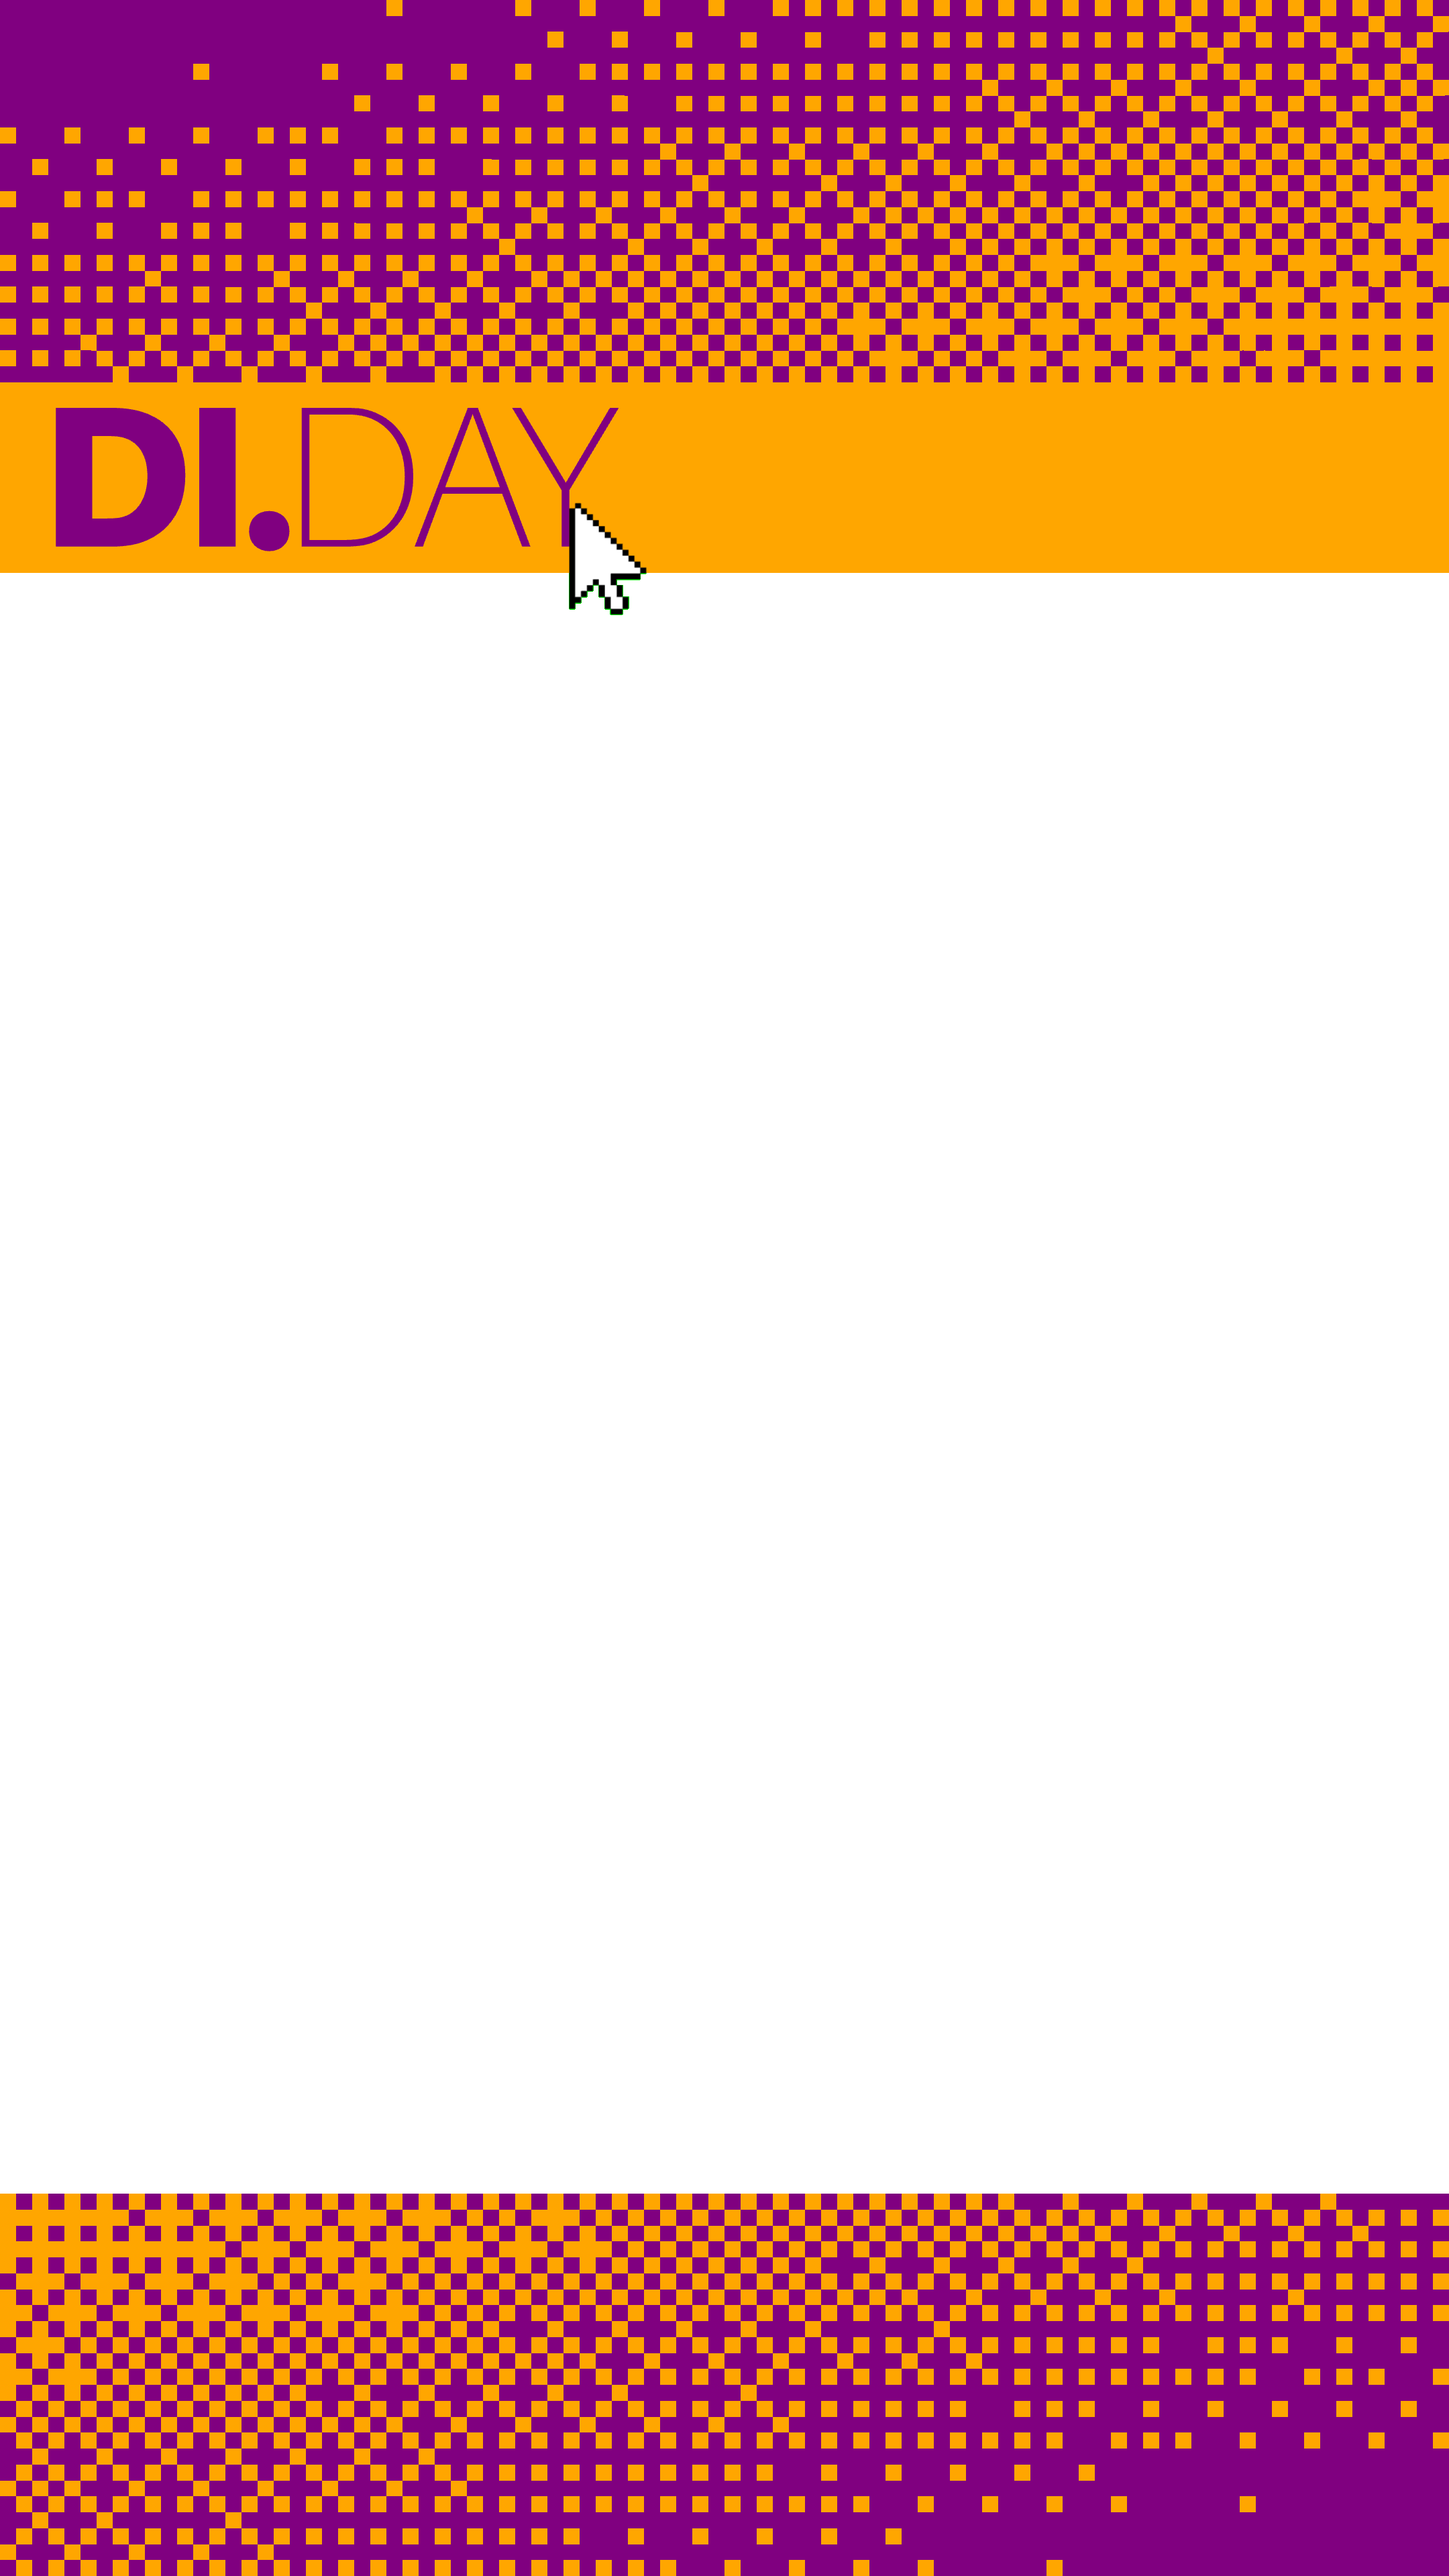
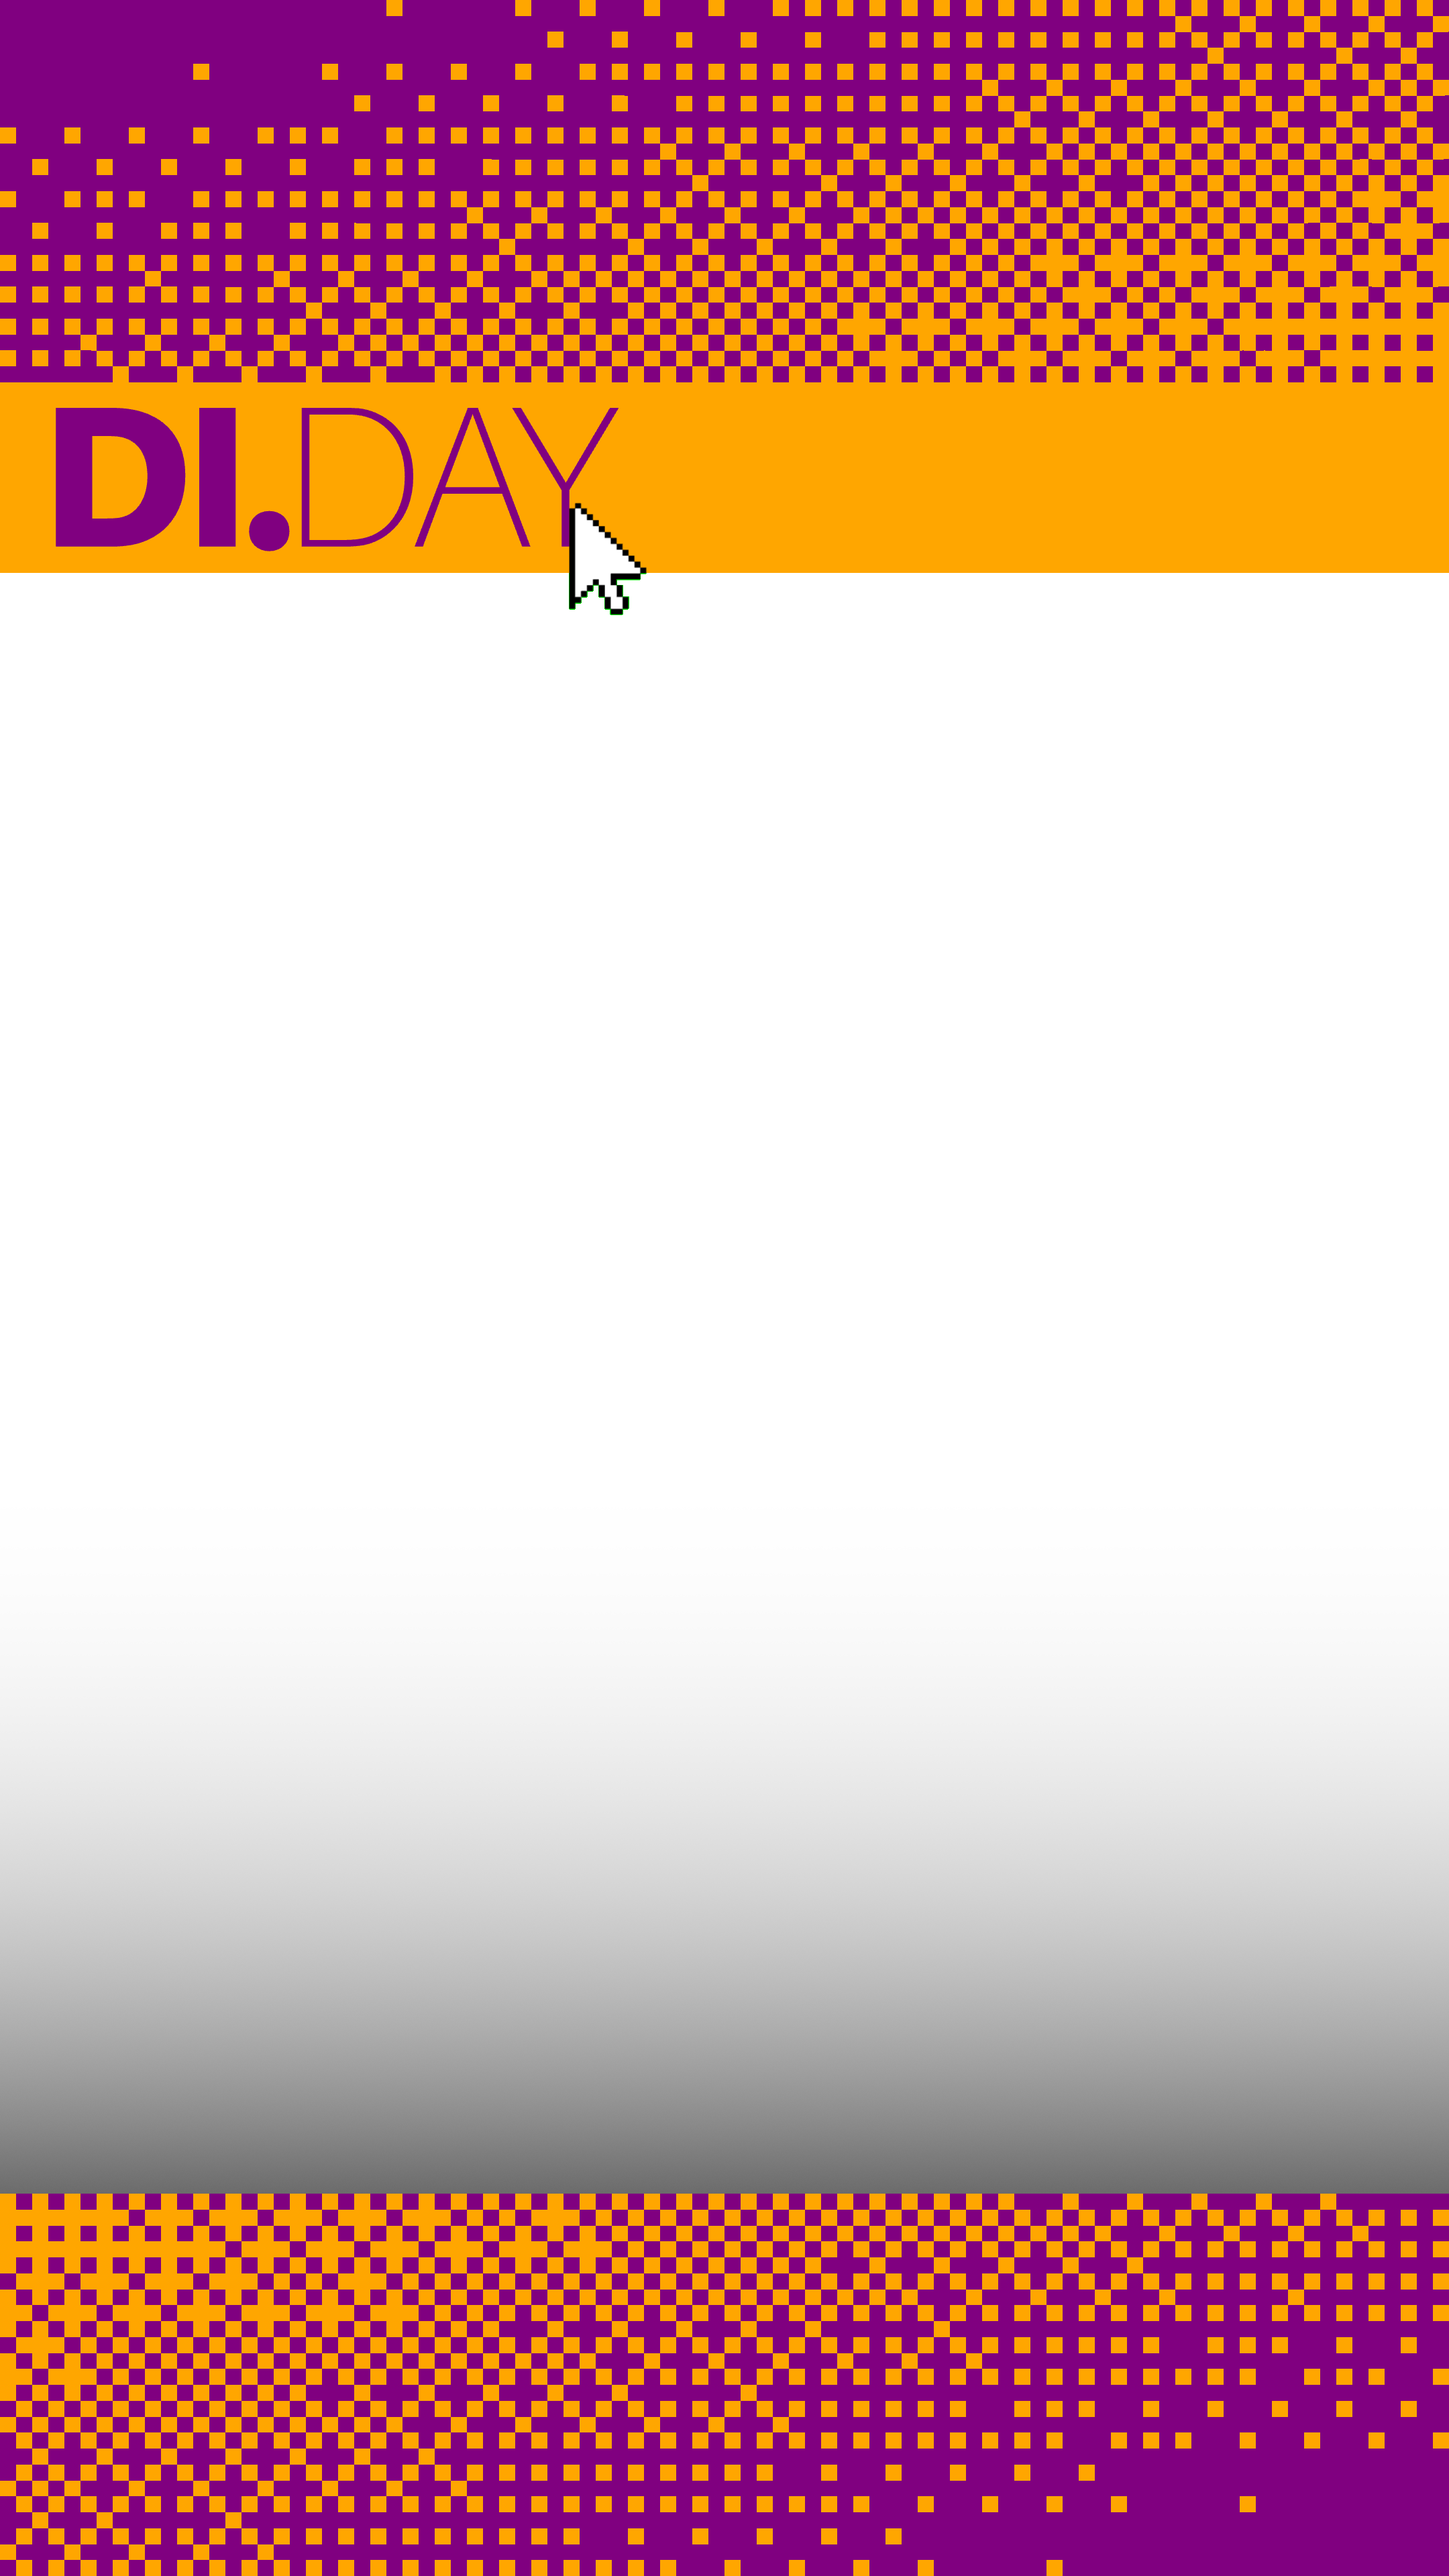
Update DiDay design

Changed region(s): [[0.0, 0.6875, 1.0, 0.875]]

diff --git a/html_tools/diday.html b/html_tools/diday.html
@@ -158,7 +158,7 @@ THE SOFTWARE IS PROVIDED “AS IS” AND THE AUTHOR DISCLAIMS ALL WARRANTIES WIT
                 left: 0;
                 width: 100%;
                 pointer-events: none;
-                z-index: 5;
+                z-index: 1;
             }
             .overlay.top {
                 top: 0;
@@ -182,25 +182,27 @@ THE SOFTWARE IS PROVIDED “AS IS” AND THE AUTHOR DISCLAIMS ALL WARRANTIES WIT
 
             .headline {
                 position: absolute;
-                left: 16px;
-                right: 16px;
-                bottom: 110px;
+                left: 0;
+                right: 0;
+                bottom: 95px;
                 z-index: 3;
-                background: rgba(255, 180, 0, 0.92);
-                color: #6a007d;
-                padding: 14px;
-                border-radius: 14px;
-                text-align: center;
+                color: #fff;
+                padding: 0;
             }
             .headline-main {
-                font-size: 1.25rem;
+                font-size: 1.75rem;
                 font-weight: 900;
                 line-height: 1.15;
+                padding: 14px;
+                text-shadow: 0 4px 8px rgba(0, 0, 0, 0.5);
             }
             .headline-sub {
-                font-size: 0.75rem;
+                font-size: 1rem;
                 font-weight: 700;
                 margin-top: 6px;
+                background: #800080;
+                padding: 14px;
+                width: 100%;
             }
         </style>
     </head>
@@ -390,75 +392,62 @@ THE SOFTWARE IS PROVIDED “AS IS” AND THE AUTHOR DISCLAIMS ALL WARRANTIES WIT
                 }
 
                 // Get headline position from DOM
-                const rect = headlineEl.getBoundingClientRect();
+                const mainEl = document.getElementById("headlinePreview");
+                const subEl = document.getElementById("subtitlePreview");
                 const posterRect = poster.getBoundingClientRect();
-                const hX = rect.left - posterRect.left;
-                const hY = rect.top - posterRect.top;
-                const hW = rect.width;
-                const hH = rect.height;
+                const mY = mainEl.getBoundingClientRect().top - posterRect.top;
+                const sY = subEl.getBoundingClientRect().top - posterRect.top;
+                const subHeight = subEl.getBoundingClientRect().height;
 
-                // Text styling
-                ctx.fillStyle = "#6a007d";
-                ctx.textAlign = "center";
+                ctx.textAlign = "left";
                 ctx.textBaseline = "top";
 
-                // Calculate available width for text (box width minus padding)
-                const textMaxWidth = hW - 28; // 14px padding on each side
-
-                // Main headline - wrap text
-                ctx.font = "900 1.25rem system-ui, sans-serif";
-                const headlineText = document.getElementById("headlineText").value;
-                const headlineLines = wrapText(ctx, headlineText, textMaxWidth);
-                const lineHeight = 20; // 1.25rem ≈ 20px
-                let currentY = hY + 14; // matches padding: 14px
-
-                // Draw each line of headline
-                headlineLines.forEach((line) => {
-                    ctx.fillText(line, w / 2, currentY);
-                    currentY += lineHeight;
-                });
-
-                // Subtitle - wrap text and position below main headline
-                ctx.font = "700 0.75rem system-ui, sans-serif";
-                const subtitleText = document.getElementById("subtitleText").value;
-                const subtitleLines = wrapText(ctx, subtitleText, textMaxWidth);
-                const subtitleLineHeight = 14; // 0.75rem ≈ 12px + spacing
-                currentY += 6; // margin-top between headline and subtitle
-
-                // Draw each line of subtitle
-                subtitleLines.forEach((line) => {
-                    ctx.fillText(line, w / 2, currentY);
-                    currentY += subtitleLineHeight;
-                });
-
-                // Now draw the headline box with proper height
-                const boxHeight = currentY - hY + 14; // add bottom padding
-                ctx.fillStyle = "rgba(255, 180, 0, 0.92)";
-                ctx.beginPath();
-                ctx.roundRect(hX, hY, hW, boxHeight, 14);
-                ctx.fill();
-
-                // Redraw text on top of the box
-                ctx.fillStyle = "#6a007d";
-                currentY = hY + 14;
-
-                // Redraw headline
-                ctx.font = "900 1.25rem system-ui, sans-serif";
-                headlineLines.forEach((line) => {
-                    ctx.fillText(line, w / 2, currentY);
-                    currentY += lineHeight;
-                });
-
-                // Redraw subtitle
-                ctx.font = "700 0.75rem system-ui, sans-serif";
-                currentY += 6;
-                subtitleLines.forEach((line) => {
-                    ctx.fillText(line, w / 2, currentY);
-                    currentY += subtitleLineHeight;
-                });
+                const padding = 14;
+                const textMaxWidth = w - padding * 2;
 
                 document.querySelectorAll(".overlay").forEach((overlay) => {
                     drawOverlay(ctx, overlay, w, h);
+                });
+
+                // Main headline
+                ctx.fillStyle = "#fff";
+                ctx.font = "900 1.75rem system-ui, sans-serif";
+                ctx.shadowColor = "rgba(0, 0, 0, 0.5)";
+                ctx.shadowOffsetX = 0;
+                ctx.shadowOffsetY = 4;
+                ctx.shadowBlur = 8;
+
+                const headlineText = document.getElementById("headlineText").value;
+                const headlineLines = wrapText(ctx, headlineText, textMaxWidth);
+                const lineHeightMain = 32.2;
+                let currentY = mY + padding;
+
+                headlineLines.forEach((line) => {
+                    ctx.fillText(line, padding, currentY);
+                    currentY += lineHeightMain;
+                });
+
+                ctx.shadowColor = "transparent";
+                ctx.shadowOffsetX = 0;
+                ctx.shadowOffsetY = 0;
+                ctx.shadowBlur = 0;
+
+                // Subtitle background
+                ctx.fillStyle = "#800080";
+                ctx.fillRect(0, sY, w, subHeight);
+
+                // Subtitle text
+                ctx.fillStyle = "#fff";
+                ctx.font = "700 1rem system-ui, sans-serif";
+
+                const subtitleText = document.getElementById("subtitleText").value;
+                const subtitleLines = wrapText(ctx, subtitleText, textMaxWidth);
+                const subtitleLineHeight = 20;
+                currentY = sY + padding;
+
+                subtitleLines.forEach((line) => {
+                    ctx.fillText(line, padding, currentY);
+                    currentY += subtitleLineHeight;
                 });
 
                 const generatedImg = document.getElementById("generatedImage");
